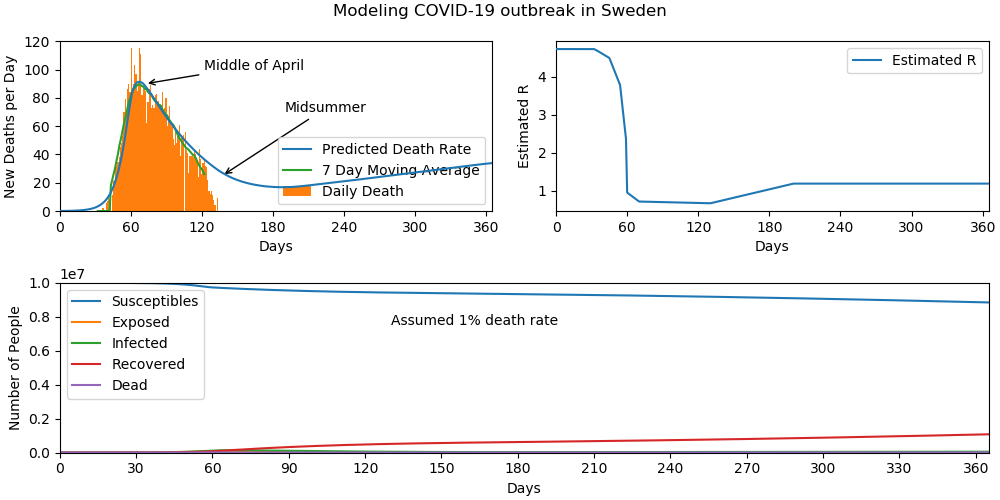
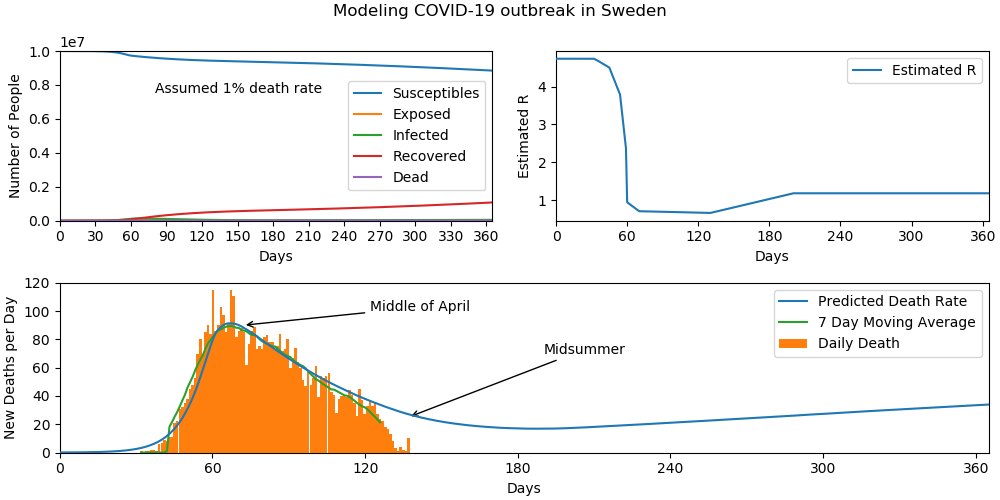
Updated subplot locations and figures
Switched places on daily death and outbreak overview in the overview figure as well as updating figures to reflect todays data from FHM (previous commit).

diff --git a/SEIRD_model.py b/SEIRD_model.py
@@ -121,7 +121,7 @@ def outbreak():
     ax1.legend()
 
     # Subplot for the Death rate
-    ax2 = fig.add_subplot(gs[0, 0])
+    ax2 = fig.add_subplot(gs[1, :])
 
     ax2.plot(t_ivp[:-1], rate_D, label='Predicted Death Rate', color='tab:blue', zorder=10)
     ax2.bar(time_dead, df_dead['Antal_avlidna'], label='Daily Death', color='tab:orange', width=1)
@@ -138,10 +138,10 @@ def outbreak():
     ax2.set_ylim(0,120)#N)
     ax2.xaxis.set_major_locator(plt.MultipleLocator(60))
 
-    ax2.legend(loc=4)
+    ax2.legend()
 
     # Subplot for the pandemic outbreak
-    ax3 = fig.add_subplot(gs[1, :])
+    ax3 = fig.add_subplot(gs[0, 0])
 
     ax3.plot(t_ivp, S, label='Susceptibles')
     ax3.plot(t_ivp, E, label='Exposed')
@@ -154,7 +154,7 @@ def outbreak():
     ax3.set_ylim(0,N)
     ax3.set_xlim(0,Days)
     ax3.xaxis.set_major_locator(plt.MultipleLocator(30))
-    ax3.text(130,7500000, r'Assumed 1% death rate')
+    ax3.text(80,7500000, r'Assumed 1% death rate')
 
     ax3.legend()
 
